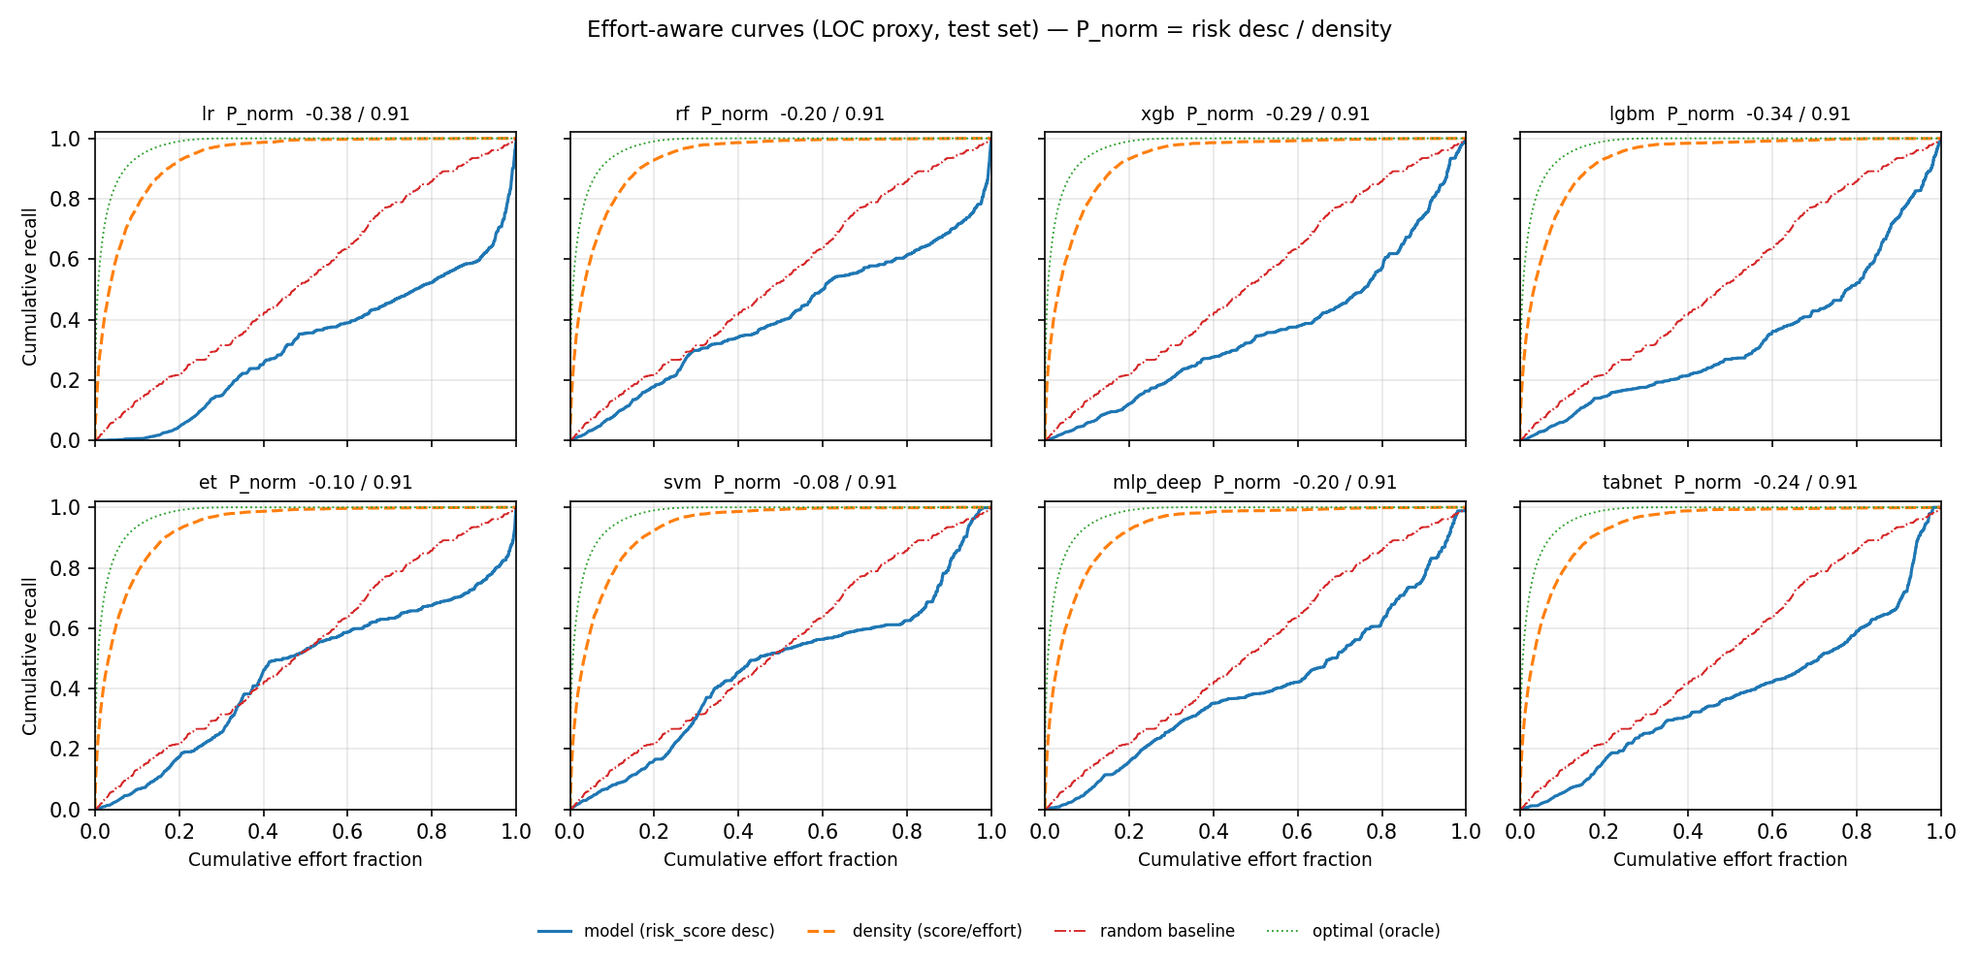
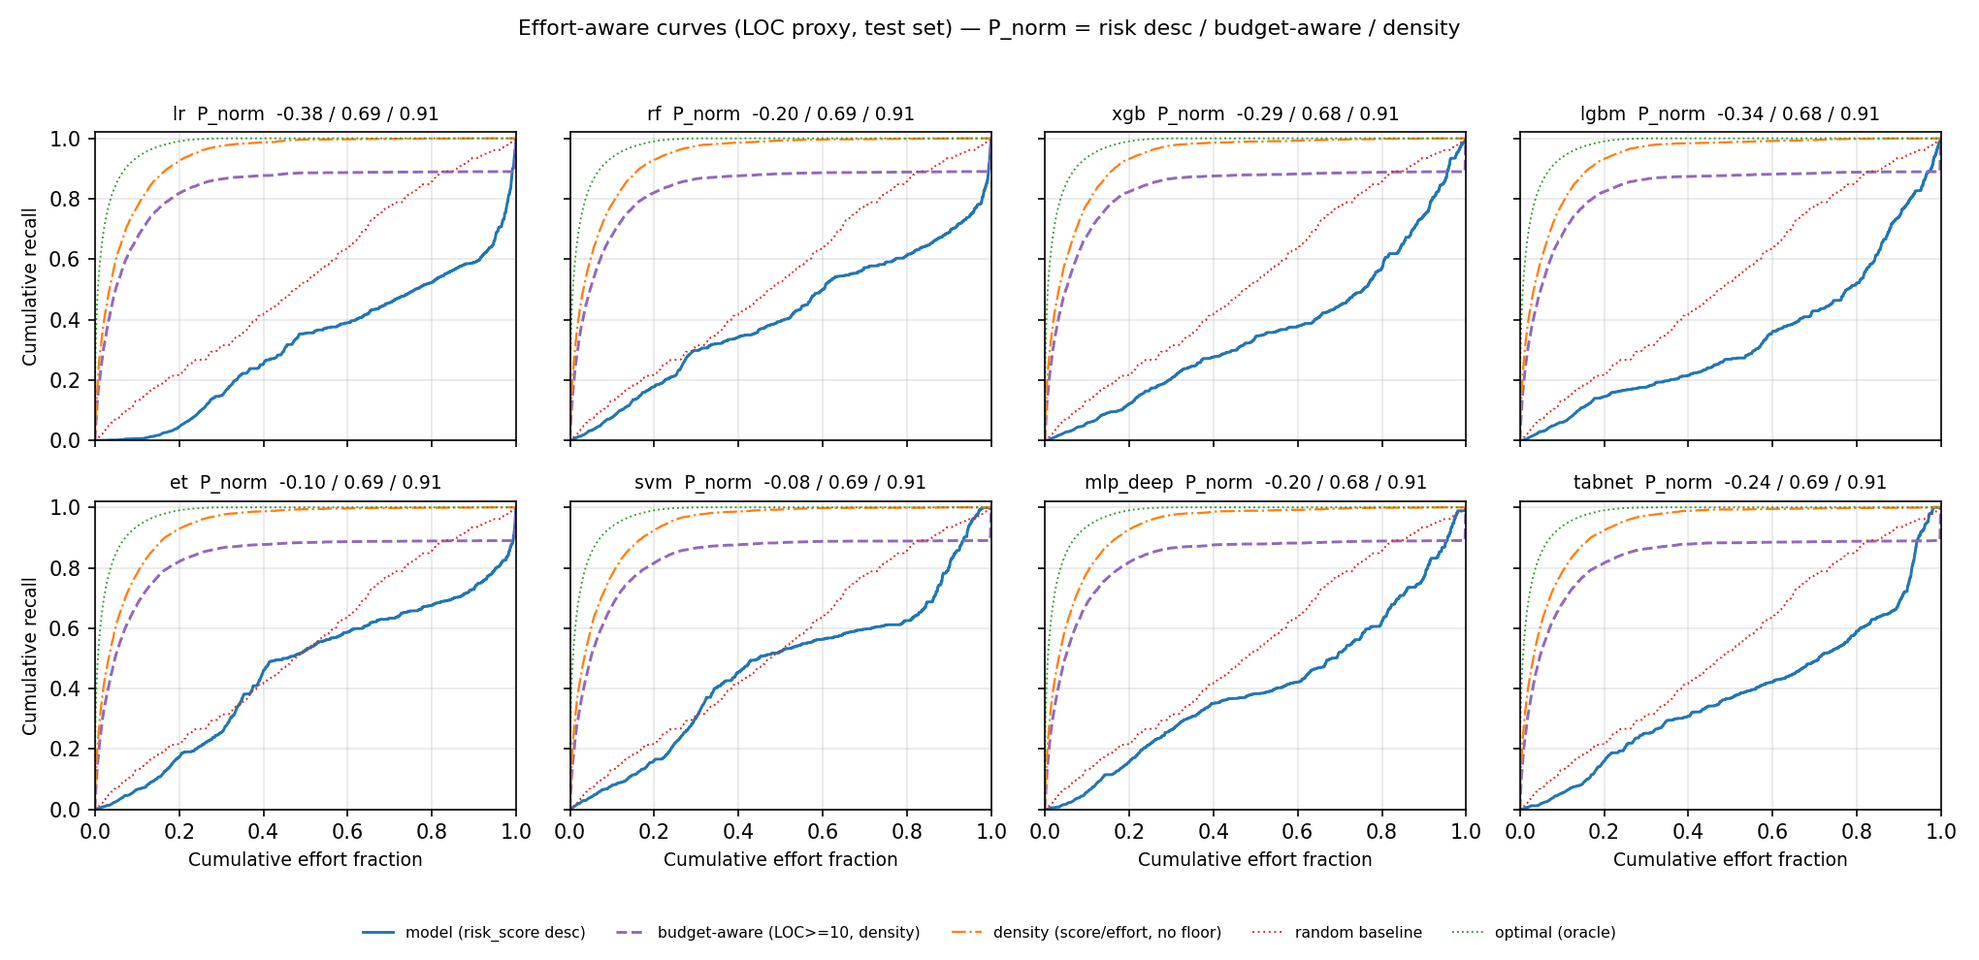
feat(model): effort 口径加预算感知列，四线训练模型统一为 8 个
1) effort-aware 对照口径：新增 budget 排序（LOC >= 10 才单独评审，其余按风险密度降序）。lr 的 20% LOC 预算从「只审 276 条、召回 4.58%、P_norm -0.38」变成「审 11531 条、召回 81.86%、P_norm 0.685」；无下限的纯密度排序仍是 0.91，但要把预算摊到两万多条 8 行提交上，不是真实评审节奏。报告加一列「20% 预算审到的条数」，并补读法把负 P_norm 归因到排序口径（Issue #37）而不是模型判别力：risk_score 与 log(LOC) 的 Spearman 中位数 0.862（svm 0.322 例外），主口径仍按契约三保留 risk_score 降序，切换走提案。effort 图从「只画第一个模型」改成 2x4 分格 + 5 条曲线（model / budget / density / random / oracle）。

2) 训练模型清单：expert / semantic / fused 的 DEFAULT_MODELS 都是历史残留的 12 个，导致队友按 README 直接跑 fused 就训了 12 个模型，报告标题也跟着写「12 分类器」。现统一为 8 个（lr rf xgb lgbm et svm mlp_deep tabnet），nb/dt/knn/mlp 留在注册表里兼容旧产物但不默认训练；semantic/fused 报告标题改为按实际训练模型数动态生成；parity / official-entry / fused-report 三处单测同步。

3) 文档：config-and-output-spec.md 新增 §0.1「四条线各训哪些模型」，含每线清单、类别划分、为什么不是 12、训练命令与跑完自检（报告模型行数 = 模型数、标题 N 分类器、manifest 行数），并注明 budget 列暂时只有 expert 线实现。

自测：data_model/tests 100 条全过；--from-saved 复算 8 个模型 AUC 与旧报告逐位一致。

diff --git a/data_model/pipelines/expert/report.py b/data_model/pipelines/expert/report.py
@@ -21,7 +21,7 @@ except AttributeError:  # numpy < 2.0
 from sklearn.metrics import roc_curve
 
 from . import config
-from .metrics import cumulative_curve
+from .metrics import budget_order, cumulative_curve
 
 FIG_DIR_NAME = "figs"
 
@@ -55,9 +55,13 @@ def make_charts(results: dict, probas: dict, y: np.ndarray,
     #    为什么不全画在一张：8 条线的 model 排序几乎重合，混在一起看不出差别；
     #    分格后每格都能读到「risk_score 降序 vs 风险密度降序」两条曲线的落差。
     effort = np.maximum(np.asarray(effort_loc, dtype=float), 1.0)
-    style = {"model": "-", "density": "--", "optimal": ":", "random": "-."}
-    label = {"model": "model (risk_score desc)", "density": "density (score/effort)",
+    style = {"model": "-", "budget": "--", "density": "-.", "optimal": ":", "random": (0, (1, 2))}
+    label = {"model": "model (risk_score desc)",
+             "budget": "budget-aware (LOC>=%d, density)" % config.MIN_REVIEW_LOC,
+             "density": "density (score/effort, no floor)",
              "optimal": "optimal (oracle)", "random": "random baseline"}
+    color = {"model": "#1f77b4", "budget": "#9467bd", "density": "#ff7f0e",
+             "optimal": "#2ca02c", "random": "#d62728"}
     names = list(results)
     ncol = 4
     nrow = max(1, -(-len(names) // ncol))
@@ -70,14 +74,18 @@ def make_charts(results: dict, probas: dict, y: np.ndarray,
         ax = axes[i // ncol][i % ncol]
         eff = results[name]["effort"]["LOC（改动行数 la+ld）"]
         for key, order in (("model", np.argsort(-probas[name], kind="stable")),
+                           ("budget", budget_order(probas[name], effort)),
                            ("density", np.argsort(-(probas[name] / effort), kind="stable"))):
             xs, ys = cumulative_curve(order, effort, y)
-            ax.plot(xs, ys, style[key], label=label[key],
-                    color="#1f77b4" if key == "model" else "#ff7f0e")
-        ax.plot(rand_xs, rand_ys, style["random"], label=label["random"], color="#d62728", lw=0.9)
-        ax.plot(opt_xs, opt_ys, style["optimal"], label=label["optimal"], color="#2ca02c", lw=0.9)
-        ax.set_title("%s  P_norm  %.2f / %.2f" % (name, eff["model"]["p_norm"],
-                                                  eff["density"]["p_norm"]), fontsize=9)
+            ax.plot(xs, ys, linestyle=style[key], label=label[key], color=color[key],
+                    lw=1.4 if key != "density" else 1.1)
+        ax.plot(rand_xs, rand_ys, linestyle=style["random"], label=label["random"],
+                color=color["random"], lw=0.9)
+        ax.plot(opt_xs, opt_ys, linestyle=style["optimal"], label=label["optimal"],
+                color=color["optimal"], lw=0.9)
+        ax.set_title("%s  P_norm  %.2f / %.2f / %.2f" % (
+            name, eff["model"]["p_norm"], eff["budget"]["p_norm"], eff["density"]["p_norm"]),
+            fontsize=9)
         ax.grid(alpha=0.3)
         ax.set_xlim(0, 1); ax.set_ylim(0, 1.02)
         if i // ncol == nrow - 1:
@@ -88,9 +96,9 @@ def make_charts(results: dict, probas: dict, y: np.ndarray,
         axes[j // ncol][j % ncol].axis("off")
     handles, labels = axes[0][0].get_legend_handles_labels()
     fig.legend(handles, labels, loc="lower center", bbox_to_anchor=(0.5, 0.005),
-               ncol=4, fontsize=8, frameon=False)
-    fig.suptitle("Effort-aware curves (LOC proxy, test set) — P_norm = risk desc / density",
-                 fontsize=11)
+               ncol=5, fontsize=7.5, frameon=False)
+    fig.suptitle("Effort-aware curves (LOC proxy, test set) — "
+                 "P_norm = risk desc / budget-aware / density", fontsize=10.5)
     fig.tight_layout(rect=(0, 0.07, 1, 0.96))
     p = out_dir / "effort_curves_loc.png"; fig.savefig(p, dpi=150); plt.close(fig)
     written.append(p)
@@ -152,8 +160,12 @@ def render(args, train, test, results) -> str:
         lines.append("| **模型排序**（契约三当前口径） | `%s` | %.4f | **%.4f** | %.4f | %.4f | %d |\n"
                      % (r["model_name"], m["area"], m["p_norm"], m["recall@20"], m["recall@50"],
                         m["n_commits@20"]))
+        b = r["effort"]["LOC（改动行数 la+ld）"]["budget"]
+        lines.append("| **预算感知**：LOC ≥ %d 内按 `risk_score / 工作量` 降序 | `%s` | %.4f | **%.4f** | %.4f | %.4f | %d |\n"
+                     % (config.MIN_REVIEW_LOC, r["model_name"], b["area"], b["p_norm"],
+                        b["recall@20"], b["recall@50"], b["n_commits@20"]))
         d = r["effort"]["LOC（改动行数 la+ld）"]["density"]
-        lines.append("| 对照：按 `risk_score / 工作量` 降序 | `%s` | %.4f | **%.4f** | %.4f | %.4f | %d |\n"
+        lines.append("| 对照：按 `risk_score / 工作量` 降序（无下限） | `%s` | %.4f | **%.4f** | %.4f | %.4f | %d |\n"
                      % (r["model_name"], d["area"], d["p_norm"], d["recall@20"], d["recall@50"],
                         d["n_commits@20"]))
     o = results[next(iter(results))]["effort"]["LOC（改动行数 la+ld）"]["optimal"]
@@ -167,24 +179,31 @@ def render(args, train, test, results) -> str:
     confs = [r["effort"]["LOC（改动行数 la+ld）"]["confound"]["spearman_risk_log_effort"]
              for r in results.values()]
     ms = [r["effort"]["LOC（改动行数 la+ld）"]["model"] for r in results.values()]
+    bs = [r["effort"]["LOC（改动行数 la+ld）"]["budget"] for r in results.values()]
     ds = [r["effort"]["LOC（改动行数 la+ld）"]["density"] for r in results.values()]
     lines.append(
         "\n> **为什么「模型排序」一列全是负的**：`risk_score` 与提交规模强相关"
         "（Spearman ρ 中位数 %.3f，最低 %.3f 出自 `svm` —— 它的概率被 Platt 压缩、"
         "对规模不敏感；其余模型 0.85 上下），越接近 1 越说明分数基本在预测「提交有多大」。"
         "按 `risk_score` 降序 = 先审最大的提交：20%% LOC 预算只审到 %d~%d 条，"
-        "召回 %.2f%%~%.2f%%，**低于随机基线 %.2f%%**；"
-        "同一条模型改按 `risk_score / 工作量` 降序，预算摊到 %d~%d 条，"
-        "召回升到 %.2f%%~%.2f%%。\n>\n"
-        "> 所以负 `P_norm` 是**排序口径**问题（契约三 Issue #37），不是模型判别力问题；"
-        "但反过来也别把密度口径的高召回当成「更准」—— 它审的是一大批小提交，"
-        "真实评审还需给 LOC 设下限，这一点尚未定口径。\n"
+        "召回 %.2f%%~%.2f%%，**低于随机基线 %.2f%%**。\n>\n"
+        "> **两种改法都要看成本**：预算感知（LOC ≥ %d 再按密度）审 %d~%d 条，"
+        "召回 %.2f%%~%.2f%%（P_norm %.2f~%.2f）；无下限的纯密度排序审 %d~%d 条，"
+        "召回 %.2f%%~%.2f%%（P_norm %.2f~%.2f）—— 后者指标更高，代价是把预算摊到"
+        "两万多条 8 行提交上，不是真实评审节奏。\n>\n"
+        "> 所以负 `P_norm` 是**排序口径**问题（契约三 Issue #37），不是模型判别力问题。"
+        "主口径仍按契约三保留 `risk_score` 降序；口径是否切换走提案，不在本报告里静默改。\n"
         % (float(np.median(confs)), min(confs),
            min(m["n_commits@20"] for m in ms), max(m["n_commits@20"] for m in ms),
            100 * min(m["recall@20"] for m in ms), 100 * max(m["recall@20"] for m in ms),
            100 * r_["recall@20"],
+           config.MIN_REVIEW_LOC,
+           min(b["n_commits@20"] for b in bs), max(b["n_commits@20"] for b in bs),
+           100 * min(b["recall@20"] for b in bs), 100 * max(b["recall@20"] for b in bs),
+           min(b["p_norm"] for b in bs), max(b["p_norm"] for b in bs),
            min(d["n_commits@20"] for d in ds), max(d["n_commits@20"] for d in ds),
-           100 * min(d["recall@20"] for d in ds), 100 * max(d["recall@20"] for d in ds)))
+           100 * min(d["recall@20"] for d in ds), 100 * max(d["recall@20"] for d in ds),
+           min(d["p_norm"] for d in ds), max(d["p_norm"] for d in ds)))
     lines.append("\n## 三、SHAP 单条解释耗时（实测，随机器负载波动）\n\n")
     lines.append(f"| 模型 | p50 | p95 | 最大 | 是否满足 95% < {config.LATENCY_BUDGET_MS} ms |\n|---|---|---|---|---|\n")
     for name, r in results.items():

diff --git a/data_model/pipelines/expert/metrics.py b/data_model/pipelines/expert/metrics.py
@@ -89,11 +89,29 @@ def _spearman(a, b) -> float:
     return float(np.corrcoef(ra, rb)[0, 1])
 
 
+def budget_order(proba, effort) -> np.ndarray:
+    """预算感知排序：先过滤掉不值得单独评审的小提交，再按风险密度降序。
+
+    低于 `config.MIN_REVIEW_LOC` 的提交排到队尾（仍可能被审到，只是优先级最低），
+    这样 20% 预算不会一次性被两万多条 8 行提交吃掉，也不至于像 `risk_score` 降序
+    那样被少数巨提交独占。
+    """
+    floor = float(getattr(config, "MIN_REVIEW_LOC", 10))
+    eligible = np.where(effort >= floor)[0]
+    tiny = np.where(effort < floor)[0]
+    head = eligible[np.argsort(-(proba[eligible] / effort[eligible]), kind="stable")]
+    tail = tiny[np.argsort(-proba[tiny], kind="stable")]
+    return np.concatenate([head, tail])
+
+
 def effort_aware_metrics(proba, y, effort) -> dict:
     effort = np.maximum(np.asarray(effort, dtype=float), 1.0)  # 0 行防除零
     orders = {
         "model": np.argsort(-proba, kind="stable"),
         "density": np.argsort(-(proba / effort), kind="stable"),
+        # 预算感知：LOC 低于 MIN_REVIEW_LOC 的小提交不单独评审（它们数量占一半，
+        # 纯密度排序会把 20% 预算摊到两万多条 8 行提交上），其余仍按密度降序
+        "budget": budget_order(proba, effort),
         "optimal": np.argsort(-(y / effort), kind="stable"),
     }
     out = {}
@@ -119,14 +137,14 @@ def effort_aware_metrics(proba, y, effort) -> dict:
     out["confound"] = {"spearman_risk_log_effort": _spearman(proba, np.log(effort)),
                        "median_effort": float(np.median(effort))}
     denom = out["optimal"]["area"] - baseline
-for k in ("model", "density", "optimal", "random"):
-    out[k]["p_norm"] = ((out[k]["area"] - baseline) / denom
-                        if abs(denom) > 1e-12 else float("nan"))
-    # 文献标准别名（同一数字的两种叫法，避免「自造口径」的误读）：
-    #   popt = 1 − Δopt（Mende & Koschke, CSMR 2010；形式与本组 P_norm 一致）
-    #   ce20 = CE@20%（20% 工作量处的缺陷召回率，20-80 原则）
-    out[k]["popt"] = out[k]["p_norm"]
-    out[k]["ce20"] = out[k]["recall@20"]
+    for k in ("model", "budget", "density", "optimal", "random"):
+        out[k]["p_norm"] = ((out[k]["area"] - baseline) / denom
+                            if abs(denom) > 1e-12 else float("nan"))
+        # 文献标准别名（同一数字的两种叫法，避免「自造口径」的误读）：
+        #   popt = 1 − Δopt（Mende & Koschke, CSMR 2010；形式与本组 P_norm 一致）
+        #   ce20 = CE@20%（20% 工作量处的缺陷召回率，20-80 原则）
+        out[k]["popt"] = out[k]["p_norm"]
+        out[k]["ce20"] = out[k]["recall@20"]
     return out
 
 

diff --git a/data_model/pipelines/expert/config.py b/data_model/pipelines/expert/config.py
@@ -32,13 +32,19 @@ LABEL_COL = "is_bug_inducing"        # 主标签 szz，不回退 szz_lite
 # ── 训练设置 ────────────────────────────────────────────────────────────
 SEED = 42                            # 随机种子显式固定，写进报告
 DECISION_THRESHOLD = 0.5             # 契约三：服务端常量，非请求参数
-DEFAULT_MODELS = ["lr", "rf", "xgb", "lgbm", "et", "svm",
-                  "nb", "dt", "knn", "mlp", "mlp_deep", "tabnet"]
+# 训练口径 = 8 个（2 类：经典 6 + 深度 2），四条线共用同一份清单，见
+# pipelines/config-and-output-spec.md §0.1。model.py 的 MODEL_NAMES 是 12 个的
+# 注册表（多 nb/dt/knn/mlp，历史产物兼容用），但**默认不训**：多训 4 个既拖慢
+# 单线复现，又让四线对比的模型集合不一致。
+DEFAULT_MODELS = ["lr", "rf", "xgb", "lgbm", "et", "svm", "mlp_deep", "tabnet"]
 
 # ── Effort-aware 指标参数（与 06 同源，跨线可比）────────────────────────
 RANDOM_BASELINE_REPEATS = 200
 RANDOM_BASELINE_SEED = 0
 EFFORT_FRACTIONS = (0.20, 0.50)      # Recall@20% / Recall@50%
+# 预算感知排序的评审下限（LOC）：低于它的提交流程上不单独排期评审。
+# 只影响 `budget` 这一对照口径，不改契约三的 `risk_score` 降序主口径。
+MIN_REVIEW_LOC = 10
 
 # ── SHAP 实测（契约三：95% 请求 < 500ms）───────────────────────────────
 SHAP_ROWS = 100

diff --git a/data_model/tests/test_model_registry_parity.py b/data_model/tests/test_model_registry_parity.py
@@ -36,6 +36,10 @@ EXPECTED = {
     "nb", "dt", "knn", "mlp", "mlp_deep", "tabnet",
 }
 
+# 训练口径（config.DEFAULT_MODELS）只有 8 个：nb / dt / knn / mlp 留在注册表里
+# 兼容旧产物，但不进默认训练，也不进四线对比（见 config-and-output-spec.md §0.1）。
+TRAINED = ["lr", "rf", "xgb", "lgbm", "et", "svm", "mlp_deep", "tabnet"]
+
 
 def test_expert_registry_declares_expected_models():
     assert set(expert_m.MODEL_NAMES) == EXPECTED
@@ -49,9 +53,14 @@ def test_semantic_and_fused_match_expert_registry():
 def test_all_three_lines_share_the_same_default_model_set():
     """train.py reads each line's own config; if the defaults drift, a plain
     `python -m pipelines.<line>.train` silently compares different model sets
-    and the cross-line comparison is no longer about the feature modality."""
+    and the cross-line comparison is no longer about the feature modality.
+
+    默认清单 = 8 个（不是注册表的 12 个）：多训 4 个会让单线复现时间和四线
+    对齐成本翻倍，而课程只要求「2 类 ≥ 8 种」。
+    """
     assert list(EXPERT_DEFAULT) == list(SEMANTIC_DEFAULT) == list(FUSED_DEFAULT)
-    assert set(EXPERT_DEFAULT) == EXPECTED
+    assert list(EXPERT_DEFAULT) == TRAINED
+    assert set(TRAINED) < set(EXPECTED), "注册表应包含训练口径之外的兼容模型"
 
 
 def test_every_registered_model_builds():

diff --git a/data_model/tests/test_official_entry_import.py b/data_model/tests/test_official_entry_import.py
@@ -60,7 +60,8 @@ def test_all_registered_names_build_under_official_namespace(line):
     probe = (
         f"from pipelines.{line}.model import build_model;"
         f"from pipelines.{line}.config import DEFAULT_MODELS;"
-        "expected = 'lr,rf,xgb,lgbm,et,svm,nb,dt,knn,mlp,mlp_deep,tabnet'.split(',');"
+        # 训练口径 8 个（注册表 12 个，多出的 nb/dt/knn/mlp 不默认训练，见 spec §0.1）
+        "expected = 'lr,rf,xgb,lgbm,et,svm,mlp_deep,tabnet'.split(',');"
         "assert set(DEFAULT_MODELS) == set(expected), DEFAULT_MODELS;"
         "[build_model(n, 42) for n in DEFAULT_MODELS];"
         "print('OK', len(DEFAULT_MODELS))"
@@ -68,4 +69,4 @@ def test_all_registered_names_build_under_official_namespace(line):
     r = _run_probe(probe)
     assert r.returncode == 0, (
         f"{line}: {r.stdout}\nstderr: {r.stderr[-1200:]}")
-    assert "OK 12" in r.stdout
+    assert "OK 8" in r.stdout

diff --git a/data_model/pipelines/fused/config.py b/data_model/pipelines/fused/config.py
@@ -30,7 +30,8 @@ EXPECTED_DIM = len(FEATURE_FIELDS) + 768     # 782
 # ── 训练设置 ────────────────────────────────────────────────────────────
 SEED = 42
 DECISION_THRESHOLD = 0.5
-DEFAULT_MODELS = ["lr", "rf", "xgb", "lgbm", "et", "svm",
-                  "nb", "dt", "knn", "mlp", "mlp_deep", "tabnet"]
+# 训练口径 = 8 个（与 expert / semantic 共用，见 pipelines/config-and-output-spec.md §0.1）。
+# model.py 的 MODEL_NAMES 仍是 12 个的注册表（多 nb/dt/knn/mlp，兼容旧产物），默认不训。
+DEFAULT_MODELS = ["lr", "rf", "xgb", "lgbm", "et", "svm", "mlp_deep", "tabnet"]
 RANDOM_BASELINE_REPEATS = 200
 RANDOM_BASELINE_SEED = 0

diff --git a/data_model/pipelines/fused/report.py b/data_model/pipelines/fused/report.py
@@ -77,7 +77,9 @@ def make_charts(results, probas, y, effort_loc, out_dir: Path) -> list[Path]:
 
 def render(args, results, n_train, n_test, y_test, coverage=None, text_stats=None) -> str:
     lines = [
-        f"# fused 线模型评估指标（Kamei14 ⊕ 语义 768 = {config.EXPECTED_DIM} 维 → 12 分类器）\n",
+        # 分类器数量按本次实际训练的模型数动态写，避免「默认 8 个、标题却写 12」的漂移
+        "# fused 线模型评估指标（Kamei14 ⊕ 语义 768 = %d 维 → %d 分类器）\n"
+        % (config.EXPECTED_DIM, len(results)),
         "> 对照线：同切分、同分类器族、同指标口径；特征 = 专家特征 + 语义向量拼接。\n",
         "## 数据与参数\n",
         "| 项 | 值 |\n|---|---|\n",

diff --git a/data_model/tests/test_fused_report_coverage.py b/data_model/tests/test_fused_report_coverage.py
@@ -90,9 +90,10 @@ def test_coverage_99_5_percent_drops_missing_row_and_reports_both_splits():
     assert "低于 100% 需说明缺失原因" in text
 
 
-def test_report_title_states_12_classifiers():
+def test_report_title_states_trained_classifier_count():
+    """标题里的分类器数量必须等于本次实际训练的模型数（曾写死 12，与默认 8 漂移）。"""
     df, X, index, emb = _make_case(covered=N)
     kept_df, _, _ = fused_data.fuse(df, X, index, emb)
 
     text = _render(_coverage(len(kept_df)), len(kept_df))
-    assert "→ 12 分类器" in text, "标题须与 config.DEFAULT_MODELS 的 12 个分类器一致"
+    assert "→ %d 分类器" % len(_fake_results()) in text, "标题须与本次训练的模型数一致"

diff --git a/data_model/pipelines/semantic/report.py b/data_model/pipelines/semantic/report.py
@@ -76,7 +76,8 @@ def make_charts(results, probas, y, effort_loc, out_dir: Path) -> list[Path]:
 
 def render(args, results, n_train, n_test, y_test, text_stats=None) -> str:
     lines = [
-        "# semantic 线模型评估指标（冻结 CodeBERT 768 维 → 12 分类器）\n",
+        # 分类器数量按本次实际训练的模型数动态写，避免「默认 8 个、标题却写 12」的漂移
+        "# semantic 线模型评估指标（冻结 CodeBERT 768 维 → %d 分类器）\n" % len(results),
         "> 对照线：与 expert 线同切分、同分类器族、同指标口径；唯一变量是特征模态。\n",
         "## 数据与参数\n",
         "| 项 | 值 |\n|---|---|\n",

diff --git a/data_model/pipelines/semantic/model.py b/data_model/pipelines/semantic/model.py
@@ -1,4 +1,4 @@
-"""semantic 线模型定义：冻结 CodeBERT 编码器 + 与 expert 同款 12 分类器。
+"""semantic 线模型定义：冻结 CodeBERT 编码器 + 与 expert 同款分类器（默认训练 8 个，注册表 12 个）。
 
 与任务目标的匹配：文本模态已由冻结编码器压成 768 维定长向量，下游与 expert 线一样是
 「表格型中等样本量二分类」—— 所以分类器族与 expert 完全一致（同 12 种、同超参），

diff --git a/data_model/pipelines/fused/model.py b/data_model/pipelines/fused/model.py
@@ -1,4 +1,4 @@
-"""fused 线模型定义：与 expert / semantic 完全同款的 12 分类器。
+"""fused 线模型定义：与 expert / semantic 同款的分类器（默认训练 8 个，注册表 12 个）。
 
 理由：三条线的分类器族、超参、种子全部一致，唯一变量是输入特征（14 维 / 768 维 /
 782 维拼接）—— 跨线对比才严格归因于「特征模态」。lr/knn/svm 前置 StandardScaler：
